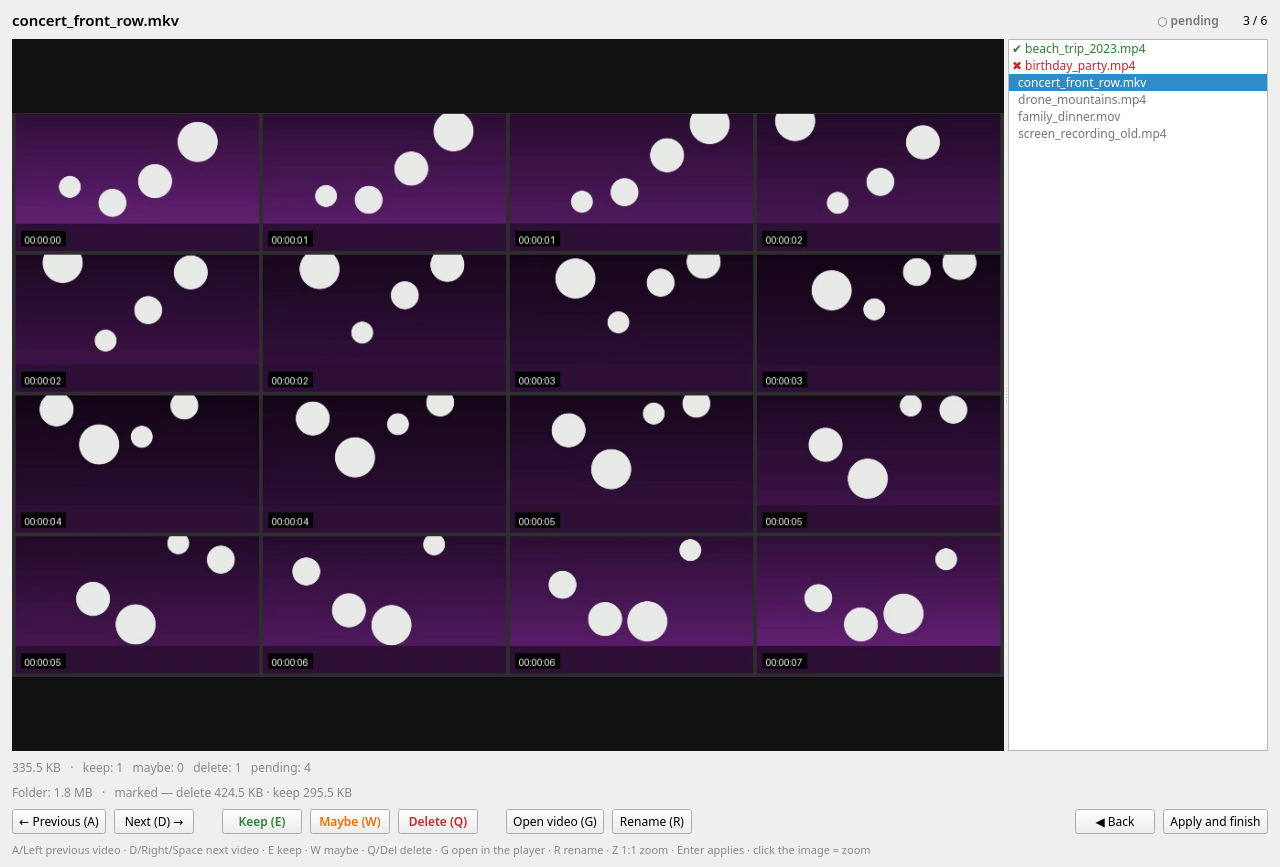
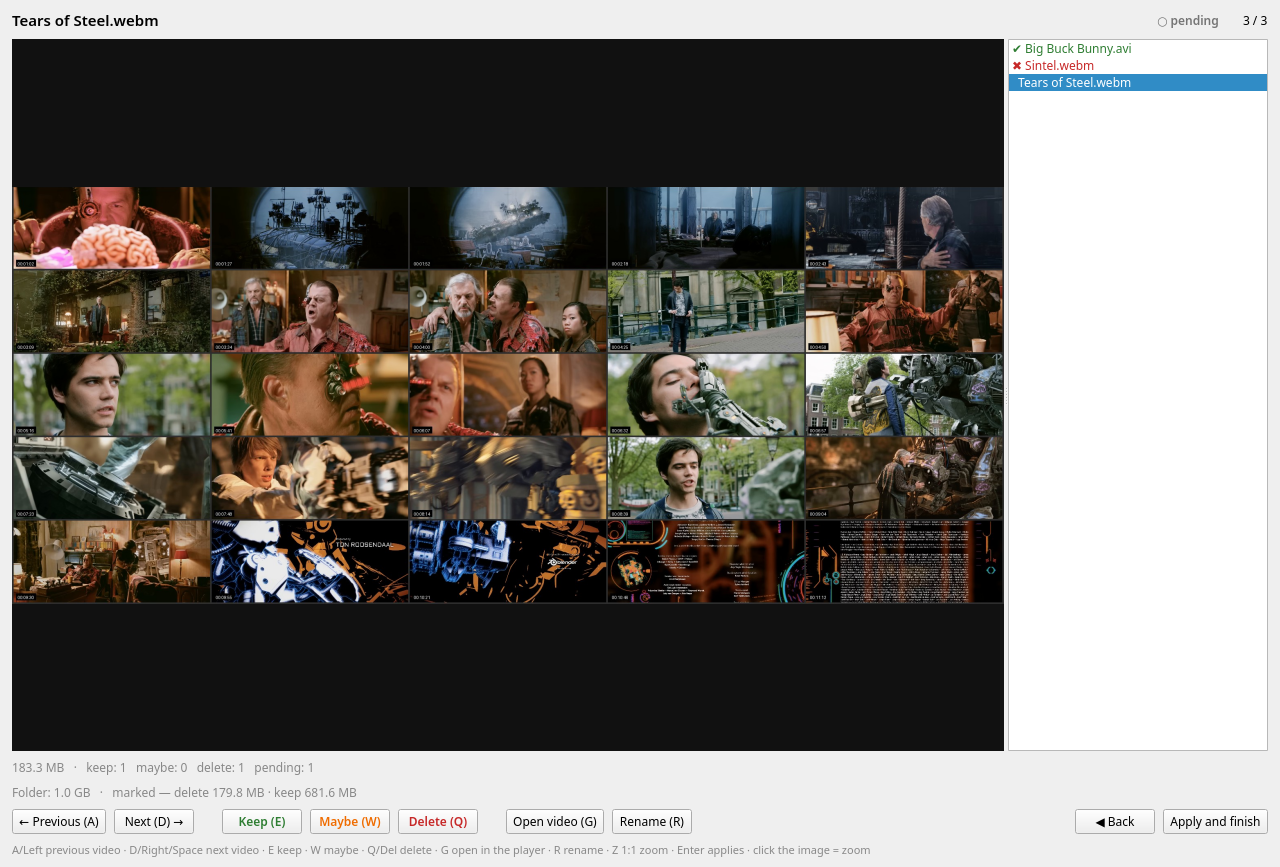
Prints do README com os filmes abertos da Blender, e a folha em si
Os prints usavam vídeos sintéticos (fundo colorido com círculos), que não
mostram o que a folha entrega: cenas de momentos diferentes do vídeo. Agora
saem de Big Buck Bunny, Sintel e Tears of Steel (CC BY 3.0, créditos no
README), e o README ganha também uma folha como ela é salva, com cabeçalho e
as 25 cenas, que é o produto do programa e não aparecia em lugar nenhum.

gerar_prints.py ganha --videos (e --folha, para escolher qual vídeo vira o
print da folha). Os vídeos não vão para o repositório e nada é escrito na
pasta deles: entram por link simbólico, com o nome limpo (o nome aparece no
print), numa pasta temporária. A grade passa a ser a padrão do programa
(5x5), e a faixa da folha sai no idioma de cada print. Sem --videos, continua
gerando os sintéticos.

diff --git a/scripts/gerar_prints.py b/scripts/gerar_prints.py
@@ -1,19 +1,27 @@
 """Gera os prints do README a partir do próprio programa.
 
-    uv run python scripts/gerar_prints.py
+    uv run python scripts/gerar_prints.py                      # vídeos sintéticos
+    uv run python scripts/gerar_prints.py --videos ~/filmes    # vídeos de verdade
 
-Abre a janela de verdade, sem tela (`QT_QPA_PLATFORM=offscreen`), sobre uma
-pasta de vídeos sintéticos criada na hora — nunca a biblioteca de quem roda —
-e salva a tela inicial e a de revisão, em inglês e em português, em
+Abre a janela de verdade, sem tela (`QT_QPA_PLATFORM=offscreen`), e salva a
+tela inicial, a de revisão e uma folha gerada, em inglês e em português, em
 `assets/prints/`. Rode de novo quando a interface mudar, e confira as imagens
 antes de commitar.
 
-A config também vai para a pasta temporária: a janela grava a dela sozinha.
+Os prints do README usam os filmes abertos da Blender Foundation (Big Buck
+Bunny, Sintel, Tears of Steel, CC BY 3.0), que não vão para o repositório:
+baixe-os e passe a pasta em `--videos`. Sem ela, saem vídeos sintéticos.
+
+Nada é escrito na pasta passada em `--videos`: os vídeos entram por link
+simbólico, com o nome limpo, numa pasta temporária, e as folhas, o histórico e
+a config ficam lá. Os nomes aparecem no print, por isso a limpeza.
 """
 
 from __future__ import annotations
 
+import argparse
 import os
+import re
 import shutil
 import sys
 import tempfile
@@ -24,7 +32,7 @@ RAIZ = Path(__file__).resolve().parent.parent
 sys.path.insert(0, str(RAIZ))
 
 # o pacote antes do cv2: ele guarda o ambiente antes de o cv2 reescrevê-lo
-from video_manager import config, library, thumbs  # noqa: E402, I001
+from video_manager import config, i18n, library, thumbs  # noqa: E402, I001
 
 import cv2  # noqa: E402
 import numpy as np  # noqa: E402
@@ -64,14 +72,35 @@ def _video(path: Path, cor: tuple[int, int, int], bolas: int) -> None:
     writer.release()
 
 
-def _preparar() -> tuple[Path, Path]:
+#: pedaços de nome de arquivo que não dizem nada no print
+_RUIDO = re.compile(r"^(\d{3,4}p|4k|hd|stereo)$", re.IGNORECASE)
+
+
+def nome_limpo(arquivo: Path) -> str:
+    """`Sintel - Open Movie by … [eRsGyueVLvQ].webm` -> `Sintel.webm`."""
+    stem = re.sub(r"\[[^\]]*\]", "", arquivo.stem).split(" - ")[0]
+    palavras = [p for p in stem.replace("_", " ").split() if not _RUIDO.match(p)]
+    stem = " ".join(palavras) or arquivo.stem
+    if stem.islower():
+        stem = stem.title()
+    return stem + arquivo.suffix.lower()
+
+
+def _preparar(origem: Path | None) -> tuple[Path, Path]:
     shutil.rmtree(DEMO, ignore_errors=True)
     videos = DEMO / "videos"
     videos.mkdir(parents=True)
-    for nome, (cor, bolas) in VIDEOS.items():
-        _video(videos / nome, cor, bolas)
+    if origem is None:
+        for nome, (cor, bolas) in VIDEOS.items():
+            _video(videos / nome, cor, bolas)
+    else:
+        for arquivo in library.list_videos(origem):
+            (videos / nome_limpo(arquivo)).symlink_to(arquivo.resolve())
+        if not library.list_videos(videos):
+            raise SystemExit(f"nenhum vídeo em {origem}")
     thumbs_dir = videos / "thumbs"
-    opts = thumbs.ThumbOptions(n_rows=4, n_cols=4, cell_height=150, workers=4)
+    # a grade padrão do programa, para o print mostrar o que o usuário verá
+    opts = thumbs.ThumbOptions(workers=4)
     falhas = [r for r in thumbs.generate(library.list_videos(videos), thumbs_dir, opts) if not r.ok]
     if falhas:
         raise SystemExit(f"folhas falharam: {[(r.video.name, r.error) for r in falhas]}")
@@ -87,20 +116,31 @@ def _salvar(widget, nome: str) -> None:
 
 
 def main() -> None:
+    parser = argparse.ArgumentParser(description=__doc__.splitlines()[0])
+    parser.add_argument("--videos", type=Path, help="pasta com os vídeos dos prints")
+    parser.add_argument(
+        "--folha", help="vídeo cuja folha vira print (nome já limpo; padrão: o primeiro)"
+    )
+    args = parser.parse_args()
+    origem = args.videos.expanduser() if args.videos else None
+    if origem is not None and not origem.is_dir():
+        raise SystemExit(f"pasta não encontrada: {origem}")
+
     app = QApplication.instance() or QApplication([])
     config.CONFIG_PATH = DEMO / "config" / "config.json"
     from video_manager.app import MainWindow
 
     SAIDA.mkdir(parents=True, exist_ok=True)
     for idioma in ("en", "pt"):
-        videos, thumbs_dir = _preparar()
-        config.Config(
-            language=idioma,
-            videos_dir=str(videos),
-            thumbs_dir=str(thumbs_dir),
-            n_rows=4,
-            n_cols=4,
-        ).save()
+        # a faixa da folha sai no idioma corrente
+        i18n.set_language(idioma)
+        videos, thumbs_dir = _preparar(origem)
+        config.Config(language=idioma, videos_dir=str(videos), thumbs_dir=str(thumbs_dir)).save()
+        folha = args.folha or library.list_videos(videos)[0].name
+        shutil.copyfile(
+            thumbs_dir / library.thumb_output_name(Path(folha)), SAIDA / f"sheet-{idioma}.jpg"
+        )
+        print(f"assets/prints/sheet-{idioma}.jpg")
         janela = MainWindow()
         janela.resize(1280, 820)
         janela.show()

diff --git a/README.pt-BR.md b/README.pt-BR.md
@@ -16,11 +16,20 @@ quais não basta ganham uma pilha própria em vez de uma decisão apressada.
 ![Tela de revisão: a folha do vídeo atual, a lista da sessão com as decisões até aqui e as teclas de cada ação](assets/prints/review-pt.png)
 
 <details>
+<summary>Uma folha, do jeito que é salva</summary>
+
+![Folha do Big Buck Bunny: cabeçalho com os dados do arquivo e 25 frames espalhados pelo filme inteiro](assets/prints/sheet-pt.jpg)
+
+</details>
+
+<details>
 <summary>Tela inicial</summary>
 
 ![Tela inicial: pastas, opções de geração das thumbnails e como a sessão de revisão é montada](assets/prints/setup-pt.png)
 
 </details>
+
+*Prints feitos com os filmes abertos da Blender Foundation [Big Buck Bunny](https://peach.blender.org/) (© 2008 Blender Foundation), [Sintel](https://durian.blender.org/) (© Blender Foundation) e [Tears of Steel](https://mango.blender.org/) ((CC) Blender Foundation), sob [CC BY 3.0](https://creativecommons.org/licenses/by/3.0/).*
 
 O que ele faz:
 
@@ -463,8 +472,10 @@ config. A suíte também roda o [Ruff](https://docs.astral.sh/ruff/) (lint e
 formatação, configurado no `pyproject.toml`). Toda alteração roda a suíte antes
 do commit.
 
-Os prints lá de cima saem do próprio programa, sobre vídeos sintéticos:
-`uv run python scripts/gerar_prints.py` os refaz em `assets/prints/`.
+Os prints lá de cima saem do próprio programa:
+`uv run python scripts/gerar_prints.py --videos <pasta>` os refaz em
+`assets/prints/`, a partir dos três filmes abertos da Blender (que não estão no
+repositório — baixe-os numa pasta). Sem `--videos`, usa vídeos sintéticos.
 
 ## Contribuindo
 

diff --git a/README.md b/README.md
@@ -16,11 +16,20 @@ get a pile of their own instead of a rushed decision.
 ![Review screen: the contact sheet of the current video, the session list with the decisions so far, and the keys for each action](assets/prints/review-en.png)
 
 <details>
+<summary>A contact sheet as it is saved</summary>
+
+![Contact sheet of Big Buck Bunny: a header with the file data and 25 frames spread across the whole film](assets/prints/sheet-en.jpg)
+
+</details>
+
+<details>
 <summary>Start screen</summary>
 
 ![Start screen: folders, thumbnail generation options and how the review session is drawn](assets/prints/setup-en.png)
 
 </details>
+
+*Screenshots made with the Blender Foundation open movies [Big Buck Bunny](https://peach.blender.org/) (© 2008 Blender Foundation), [Sintel](https://durian.blender.org/) (© Blender Foundation) and [Tears of Steel](https://mango.blender.org/) ((CC) Blender Foundation), under [CC BY 3.0](https://creativecommons.org/licenses/by/3.0/).*
 
 What it does:
 
@@ -468,8 +477,10 @@ touches your own config. The suite also runs [Ruff](https://docs.astral.sh/ruff/
 (lint and formatting, configured in `pyproject.toml`). Every change runs it before
 a commit.
 
-The screenshots above come from the program itself, over synthetic videos:
-`uv run python scripts/gerar_prints.py` regenerates them in `assets/prints/`.
+The screenshots above come from the program itself:
+`uv run python scripts/gerar_prints.py --videos <folder>` regenerates them in
+`assets/prints/`, from the three Blender open movies (not in the repository —
+download them into a folder). Without `--videos`, it uses synthetic videos.
 
 ## Contributing
 
